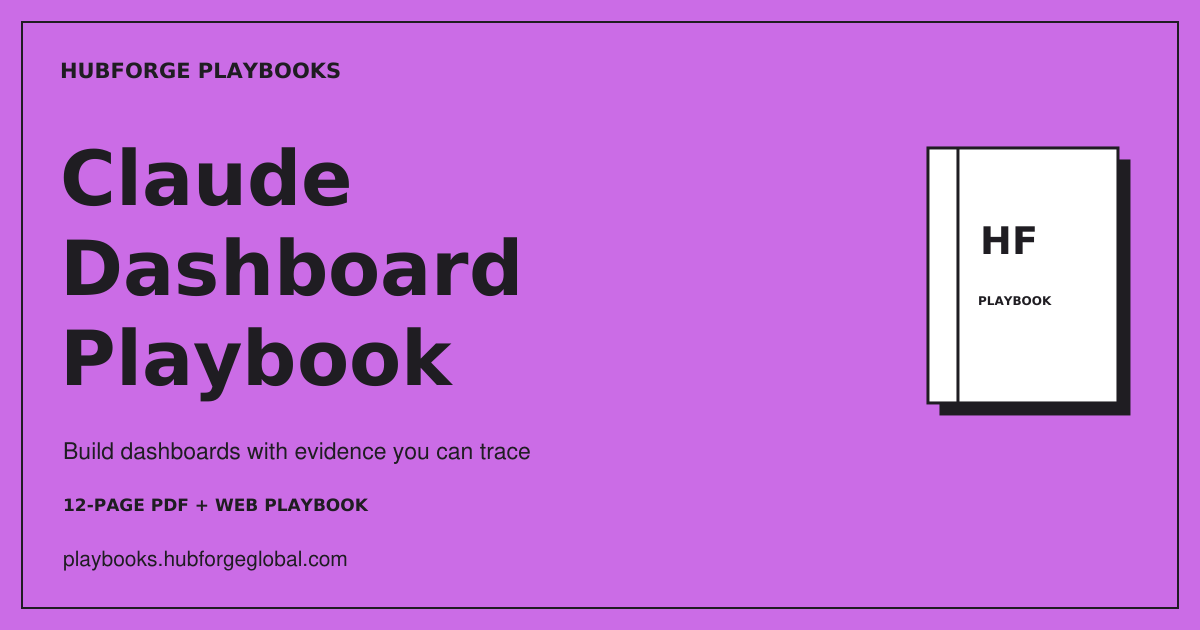
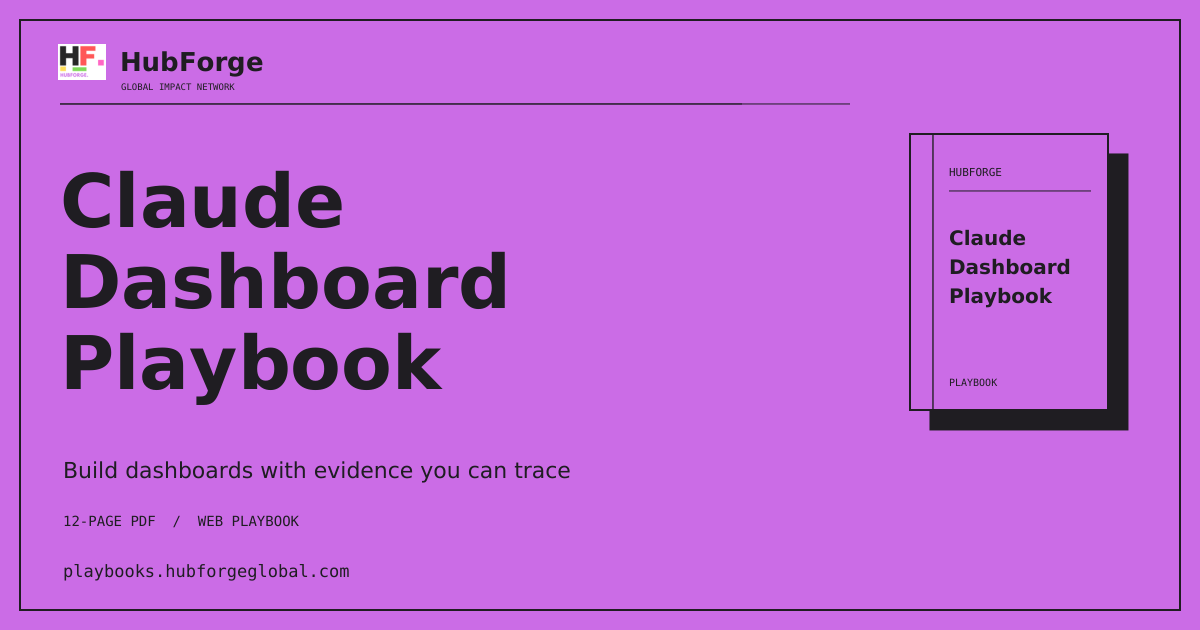
Make social previews crawler-friendly and distinctly HubForge branded

Changed region(s): [[0.0, 0.0302, 0.9867, 0.9952]]

diff --git a/index.html b/index.html
@@ -3,6 +3,35 @@
 <head>
   <meta charset="utf-8">
   <meta name="viewport" content="width=device-width, initial-scale=1">
+<!-- Search, social previews and machine-readable playbook metadata -->
+<title>HubForge Playbooks | Dashboard Design &amp; AI</title>
+<meta name="description" content="Free HubForge playbooks for dashboard design and AI-assisted workflows. Read Designing Dashboards with AI and the Claude Dashboard Playbook or download the PDFs.">
+<meta name="robots" content="index, follow, max-image-preview:large, max-snippet:-1, max-video-preview:-1">
+<meta name="author" content="HubForge Global Impact Network Foundation">
+<link rel="canonical" href="https://playbooks.hubforgeglobal.com/">
+<link rel="alternate" type="text/markdown" href="https://playbooks.hubforgeglobal.com/index.md" title="Playbook summary">
+<link rel="describedby" type="text/plain" href="https://playbooks.hubforgeglobal.com/llms.txt">
+<meta property="og:type" content="website">
+<meta property="og:site_name" content="HubForge Playbooks">
+<meta property="og:locale" content="en_US">
+<meta property="og:title" content="HubForge Playbooks">
+<meta property="og:description" content="Free playbooks. Better dashboards. Smarter AI workflows. Read online or download the PDFs.">
+<meta property="og:url" content="https://playbooks.hubforgeglobal.com/">
+<meta property="og:image" content="https://playbooks.hubforgeglobal.com/assets/social/library-branded.png">
+<meta property="og:image:secure_url" content="https://playbooks.hubforgeglobal.com/assets/social/library-branded.png">
+<meta property="og:image:type" content="image/png">
+<meta property="og:image:width" content="1200">
+<meta property="og:image:height" content="630">
+<meta property="og:image:alt" content="HubForge Playbooks by HubForge">
+<meta name="twitter:card" content="summary_large_image">
+<meta name="twitter:title" content="HubForge Playbooks">
+<meta name="twitter:description" content="Free playbooks. Better dashboards. Smarter AI workflows. Read online or download the PDFs.">
+<meta name="twitter:image" content="https://playbooks.hubforgeglobal.com/assets/social/library-branded.png">
+<meta name="twitter:image:alt" content="HubForge Playbooks by HubForge">
+<script type="application/ld+json">{"@context":"https://schema.org","@graph":[{"@type":"Organization","@id":"https://playbooks.hubforgeglobal.com/#publisher","name":"HubForge Global Impact Network Foundation","url":"https://www.hubforgeglobal.com/"},{"@type":"WebSite","@id":"https://playbooks.hubforgeglobal.com/#website","name":"HubForge Playbooks","url":"https://playbooks.hubforgeglobal.com/","publisher":{"@id":"https://playbooks.hubforgeglobal.com/#publisher"},"inLanguage":"en"},{"@type":"CollectionPage","@id":"https://playbooks.hubforgeglobal.com/#webpage","url":"https://playbooks.hubforgeglobal.com/","name":"HubForge Playbooks | Dashboard Design & AI","description":"Free HubForge playbooks for dashboard design and AI-assisted workflows. Read Designing Dashboards with AI and the Claude Dashboard Playbook or download the PDFs.","isPartOf":{"@id":"https://playbooks.hubforgeglobal.com/#website"},"inLanguage":"en","mainEntity":{"@type":"ItemList","itemListElement":[{"@type":"ListItem","position":1,"url":"https://playbooks.hubforgeglobal.com/designing-dashboards/","name":"Designing Dashboards with AI"},{"@type":"ListItem","position":2,"url":"https://playbooks.hubforgeglobal.com/claude-dashboards/","name":"Claude Dashboard Playbook"}]}},{"@type":["Book","LearningResource"],"@id":"https://playbooks.hubforgeglobal.com/designing-dashboards/#playbook","name":"Designing Dashboards with AI","url":"https://playbooks.hubforgeglobal.com/designing-dashboards/","description":"Design dashboards that help people act. Learn the six-stage DESIGN framework, practise with exercises, and download the free 27-page HubForge playbook.","inLanguage":"en","isAccessibleForFree":true,"learningResourceType":"Playbook","numberOfPages":27,"publisher":{"@id":"https://playbooks.hubforgeglobal.com/#publisher"},"image":"https://playbooks.hubforgeglobal.com/assets/social/designing-dashboards.png","encoding":{"@type":"MediaObject","encodingFormat":"application/pdf","contentUrl":"https://playbooks.hubforgeglobal.com/designing-dashboards/playbook.pdf"},"about":{"@type":"Thing","name":"AI-assisted dashboard design"}},{"@type":["Book","LearningResource"],"@id":"https://playbooks.hubforgeglobal.com/claude-dashboards/#playbook","name":"Claude Dashboard Playbook","url":"https://playbooks.hubforgeglobal.com/claude-dashboards/","description":"Build evidence dashboards with Claude. Use prompts, connect data, trace numbers to their sources, and download the free 12-page HubForge playbook.","inLanguage":"en","isAccessibleForFree":true,"learningResourceType":"Playbook","numberOfPages":12,"publisher":{"@id":"https://playbooks.hubforgeglobal.com/#publisher"},"image":"https://playbooks.hubforgeglobal.com/assets/social/claude-dashboards.png","encoding":{"@type":"MediaObject","encodingFormat":"application/pdf","contentUrl":"https://playbooks.hubforgeglobal.com/claude-dashboards/playbook.pdf"},"about":{"@type":"Thing","name":"Evidence dashboards with Claude"}}]}</script>
+<link rel="stylesheet" href="/assets/sharing.css">
+<script src="/assets/sharing.js" defer></script>
+
 
 
 
@@ -264,34 +293,6 @@
     }
   </style>
 
-<!-- Search, social previews and machine-readable playbook metadata -->
-<title>HubForge Playbooks | Dashboard Design &amp; AI</title>
-<meta name="description" content="Free HubForge playbooks for dashboard design and AI-assisted workflows. Read Designing Dashboards with AI and the Claude Dashboard Playbook or download the PDFs.">
-<meta name="robots" content="index, follow, max-image-preview:large, max-snippet:-1, max-video-preview:-1">
-<meta name="author" content="HubForge Global Impact Network Foundation">
-<link rel="canonical" href="https://playbooks.hubforgeglobal.com/">
-<link rel="alternate" type="text/markdown" href="https://playbooks.hubforgeglobal.com/index.md" title="Playbook summary">
-<link rel="describedby" type="text/plain" href="https://playbooks.hubforgeglobal.com/llms.txt">
-<meta property="og:type" content="website">
-<meta property="og:site_name" content="HubForge Playbooks">
-<meta property="og:locale" content="en_US">
-<meta property="og:title" content="HubForge Playbooks | Dashboard Design &amp; AI">
-<meta property="og:description" content="Free HubForge playbooks for dashboard design and AI-assisted workflows. Read Designing Dashboards with AI and the Claude Dashboard Playbook or download the PDFs.">
-<meta property="og:url" content="https://playbooks.hubforgeglobal.com/">
-<meta property="og:image" content="https://playbooks.hubforgeglobal.com/assets/social/library.png">
-<meta property="og:image:secure_url" content="https://playbooks.hubforgeglobal.com/assets/social/library.png">
-<meta property="og:image:type" content="image/png">
-<meta property="og:image:width" content="1200">
-<meta property="og:image:height" content="630">
-<meta property="og:image:alt" content="HubForge Playbooks by HubForge">
-<meta name="twitter:card" content="summary_large_image">
-<meta name="twitter:title" content="HubForge Playbooks | Dashboard Design &amp; AI">
-<meta name="twitter:description" content="Free HubForge playbooks for dashboard design and AI-assisted workflows. Read Designing Dashboards with AI and the Claude Dashboard Playbook or download the PDFs.">
-<meta name="twitter:image" content="https://playbooks.hubforgeglobal.com/assets/social/library.png">
-<meta name="twitter:image:alt" content="HubForge Playbooks by HubForge">
-<script type="application/ld+json">{"@context":"https://schema.org","@graph":[{"@type":"Organization","@id":"https://playbooks.hubforgeglobal.com/#publisher","name":"HubForge Global Impact Network Foundation","url":"https://www.hubforgeglobal.com/"},{"@type":"WebSite","@id":"https://playbooks.hubforgeglobal.com/#website","name":"HubForge Playbooks","url":"https://playbooks.hubforgeglobal.com/","publisher":{"@id":"https://playbooks.hubforgeglobal.com/#publisher"},"inLanguage":"en"},{"@type":"CollectionPage","@id":"https://playbooks.hubforgeglobal.com/#webpage","url":"https://playbooks.hubforgeglobal.com/","name":"HubForge Playbooks | Dashboard Design & AI","description":"Free HubForge playbooks for dashboard design and AI-assisted workflows. Read Designing Dashboards with AI and the Claude Dashboard Playbook or download the PDFs.","isPartOf":{"@id":"https://playbooks.hubforgeglobal.com/#website"},"inLanguage":"en","mainEntity":{"@type":"ItemList","itemListElement":[{"@type":"ListItem","position":1,"url":"https://playbooks.hubforgeglobal.com/designing-dashboards/","name":"Designing Dashboards with AI"},{"@type":"ListItem","position":2,"url":"https://playbooks.hubforgeglobal.com/claude-dashboards/","name":"Claude Dashboard Playbook"}]}},{"@type":["Book","LearningResource"],"@id":"https://playbooks.hubforgeglobal.com/designing-dashboards/#playbook","name":"Designing Dashboards with AI","url":"https://playbooks.hubforgeglobal.com/designing-dashboards/","description":"Design dashboards that help people act. Learn the six-stage DESIGN framework, practise with exercises, and download the free 27-page HubForge playbook.","inLanguage":"en","isAccessibleForFree":true,"learningResourceType":"Playbook","numberOfPages":27,"publisher":{"@id":"https://playbooks.hubforgeglobal.com/#publisher"},"image":"https://playbooks.hubforgeglobal.com/assets/social/designing-dashboards.png","encoding":{"@type":"MediaObject","encodingFormat":"application/pdf","contentUrl":"https://playbooks.hubforgeglobal.com/designing-dashboards/playbook.pdf"},"about":{"@type":"Thing","name":"AI-assisted dashboard design"}},{"@type":["Book","LearningResource"],"@id":"https://playbooks.hubforgeglobal.com/claude-dashboards/#playbook","name":"Claude Dashboard Playbook","url":"https://playbooks.hubforgeglobal.com/claude-dashboards/","description":"Build evidence dashboards with Claude. Use prompts, connect data, trace numbers to their sources, and download the free 12-page HubForge playbook.","inLanguage":"en","isAccessibleForFree":true,"learningResourceType":"Playbook","numberOfPages":12,"publisher":{"@id":"https://playbooks.hubforgeglobal.com/#publisher"},"image":"https://playbooks.hubforgeglobal.com/assets/social/claude-dashboards.png","encoding":{"@type":"MediaObject","encodingFormat":"application/pdf","contentUrl":"https://playbooks.hubforgeglobal.com/claude-dashboards/playbook.pdf"},"about":{"@type":"Thing","name":"Evidence dashboards with Claude"}}]}</script>
-<link rel="stylesheet" href="/assets/sharing.css">
-<script src="/assets/sharing.js" defer></script>
 </head>
 <body>
   <div class="topline" aria-hidden="true"></div>

diff --git a/designing-dashboards/index.html b/designing-dashboards/index.html
@@ -1,4 +1,33 @@
 <!doctype html><html lang="en"><head><meta charset="utf-8"><meta name="viewport" content="width=device-width,initial-scale=1">
+<!-- Search, social previews and machine-readable playbook metadata -->
+<title>Designing Dashboards with AI Playbook | HubForge</title>
+<meta name="description" content="Design dashboards that help people act. Learn the six-stage DESIGN framework, practise with exercises, and download the free 27-page HubForge playbook.">
+<meta name="robots" content="index, follow, max-image-preview:large, max-snippet:-1, max-video-preview:-1">
+<meta name="author" content="HubForge Global Impact Network Foundation">
+<link rel="canonical" href="https://playbooks.hubforgeglobal.com/designing-dashboards/">
+<link rel="alternate" type="text/markdown" href="https://playbooks.hubforgeglobal.com/designing-dashboards/index.md" title="Playbook summary">
+<link rel="describedby" type="text/plain" href="https://playbooks.hubforgeglobal.com/llms.txt">
+<meta property="og:type" content="article">
+<meta property="og:site_name" content="HubForge Playbooks">
+<meta property="og:locale" content="en_US">
+<meta property="og:title" content="Designing Dashboards with AI Playbook | HubForge">
+<meta property="og:description" content="Design dashboards that help people act. Learn the six-stage DESIGN framework, practise with exercises, and download the free 27-page HubForge playbook.">
+<meta property="og:url" content="https://playbooks.hubforgeglobal.com/designing-dashboards/">
+<meta property="og:image" content="https://playbooks.hubforgeglobal.com/assets/social/designing-dashboards.png">
+<meta property="og:image:secure_url" content="https://playbooks.hubforgeglobal.com/assets/social/designing-dashboards.png">
+<meta property="og:image:type" content="image/png">
+<meta property="og:image:width" content="1200">
+<meta property="og:image:height" content="630">
+<meta property="og:image:alt" content="Designing Dashboards with AI by HubForge">
+<meta name="twitter:card" content="summary_large_image">
+<meta name="twitter:title" content="Designing Dashboards with AI Playbook | HubForge">
+<meta name="twitter:description" content="Design dashboards that help people act. Learn the six-stage DESIGN framework, practise with exercises, and download the free 27-page HubForge playbook.">
+<meta name="twitter:image" content="https://playbooks.hubforgeglobal.com/assets/social/designing-dashboards.png">
+<meta name="twitter:image:alt" content="Designing Dashboards with AI by HubForge">
+<script type="application/ld+json">{"@context":"https://schema.org","@graph":[{"@type":"Organization","@id":"https://playbooks.hubforgeglobal.com/#publisher","name":"HubForge Global Impact Network Foundation","url":"https://www.hubforgeglobal.com/"},{"@type":"WebSite","@id":"https://playbooks.hubforgeglobal.com/#website","name":"HubForge Playbooks","url":"https://playbooks.hubforgeglobal.com/","publisher":{"@id":"https://playbooks.hubforgeglobal.com/#publisher"},"inLanguage":"en"},{"@type":"WebPage","@id":"https://playbooks.hubforgeglobal.com/designing-dashboards/#webpage","url":"https://playbooks.hubforgeglobal.com/designing-dashboards/","name":"Designing Dashboards with AI Playbook | HubForge","description":"Design dashboards that help people act. Learn the six-stage DESIGN framework, practise with exercises, and download the free 27-page HubForge playbook.","isPartOf":{"@id":"https://playbooks.hubforgeglobal.com/#website"},"inLanguage":"en","mainEntity":{"@id":"https://playbooks.hubforgeglobal.com/designing-dashboards/#playbook"}},{"@type":["Book","LearningResource"],"@id":"https://playbooks.hubforgeglobal.com/designing-dashboards/#playbook","name":"Designing Dashboards with AI","url":"https://playbooks.hubforgeglobal.com/designing-dashboards/","description":"Design dashboards that help people act. Learn the six-stage DESIGN framework, practise with exercises, and download the free 27-page HubForge playbook.","inLanguage":"en","isAccessibleForFree":true,"learningResourceType":"Playbook","numberOfPages":27,"publisher":{"@id":"https://playbooks.hubforgeglobal.com/#publisher"},"image":"https://playbooks.hubforgeglobal.com/assets/social/designing-dashboards.png","encoding":{"@type":"MediaObject","encodingFormat":"application/pdf","contentUrl":"https://playbooks.hubforgeglobal.com/designing-dashboards/playbook.pdf"},"about":{"@type":"Thing","name":"AI-assisted dashboard design"}},{"@type":"BreadcrumbList","itemListElement":[{"@type":"ListItem","position":1,"name":"Playbooks","item":"https://playbooks.hubforgeglobal.com/"},{"@type":"ListItem","position":2,"name":"Designing Dashboards with AI","item":"https://playbooks.hubforgeglobal.com/designing-dashboards/"}]}]}</script>
+<link rel="stylesheet" href="/assets/sharing.css">
+<script src="/assets/sharing.js" defer></script>
+
 
 <link rel="preconnect" href="https://fonts.googleapis.com">
 <link rel="preconnect" href="https://fonts.gstatic.com" crossorigin>
@@ -565,34 +594,6 @@ section.night .rt{color:#c9c3d2}
 .hero .route[aria-pressed="true"] span{color:rgba(255,255,255,.78)}
 .hero .btn.ghost{color:var(--hero-ink);border-color:var(--hero-ink)}
 </style>
-<!-- Search, social previews and machine-readable playbook metadata -->
-<title>Designing Dashboards with AI Playbook | HubForge</title>
-<meta name="description" content="Design dashboards that help people act. Learn the six-stage DESIGN framework, practise with exercises, and download the free 27-page HubForge playbook.">
-<meta name="robots" content="index, follow, max-image-preview:large, max-snippet:-1, max-video-preview:-1">
-<meta name="author" content="HubForge Global Impact Network Foundation">
-<link rel="canonical" href="https://playbooks.hubforgeglobal.com/designing-dashboards/">
-<link rel="alternate" type="text/markdown" href="https://playbooks.hubforgeglobal.com/designing-dashboards/index.md" title="Playbook summary">
-<link rel="describedby" type="text/plain" href="https://playbooks.hubforgeglobal.com/llms.txt">
-<meta property="og:type" content="article">
-<meta property="og:site_name" content="HubForge Playbooks">
-<meta property="og:locale" content="en_US">
-<meta property="og:title" content="Designing Dashboards with AI Playbook | HubForge">
-<meta property="og:description" content="Design dashboards that help people act. Learn the six-stage DESIGN framework, practise with exercises, and download the free 27-page HubForge playbook.">
-<meta property="og:url" content="https://playbooks.hubforgeglobal.com/designing-dashboards/">
-<meta property="og:image" content="https://playbooks.hubforgeglobal.com/assets/social/designing-dashboards.png">
-<meta property="og:image:secure_url" content="https://playbooks.hubforgeglobal.com/assets/social/designing-dashboards.png">
-<meta property="og:image:type" content="image/png">
-<meta property="og:image:width" content="1200">
-<meta property="og:image:height" content="630">
-<meta property="og:image:alt" content="Designing Dashboards with AI by HubForge">
-<meta name="twitter:card" content="summary_large_image">
-<meta name="twitter:title" content="Designing Dashboards with AI Playbook | HubForge">
-<meta name="twitter:description" content="Design dashboards that help people act. Learn the six-stage DESIGN framework, practise with exercises, and download the free 27-page HubForge playbook.">
-<meta name="twitter:image" content="https://playbooks.hubforgeglobal.com/assets/social/designing-dashboards.png">
-<meta name="twitter:image:alt" content="Designing Dashboards with AI by HubForge">
-<script type="application/ld+json">{"@context":"https://schema.org","@graph":[{"@type":"Organization","@id":"https://playbooks.hubforgeglobal.com/#publisher","name":"HubForge Global Impact Network Foundation","url":"https://www.hubforgeglobal.com/"},{"@type":"WebSite","@id":"https://playbooks.hubforgeglobal.com/#website","name":"HubForge Playbooks","url":"https://playbooks.hubforgeglobal.com/","publisher":{"@id":"https://playbooks.hubforgeglobal.com/#publisher"},"inLanguage":"en"},{"@type":"WebPage","@id":"https://playbooks.hubforgeglobal.com/designing-dashboards/#webpage","url":"https://playbooks.hubforgeglobal.com/designing-dashboards/","name":"Designing Dashboards with AI Playbook | HubForge","description":"Design dashboards that help people act. Learn the six-stage DESIGN framework, practise with exercises, and download the free 27-page HubForge playbook.","isPartOf":{"@id":"https://playbooks.hubforgeglobal.com/#website"},"inLanguage":"en","mainEntity":{"@id":"https://playbooks.hubforgeglobal.com/designing-dashboards/#playbook"}},{"@type":["Book","LearningResource"],"@id":"https://playbooks.hubforgeglobal.com/designing-dashboards/#playbook","name":"Designing Dashboards with AI","url":"https://playbooks.hubforgeglobal.com/designing-dashboards/","description":"Design dashboards that help people act. Learn the six-stage DESIGN framework, practise with exercises, and download the free 27-page HubForge playbook.","inLanguage":"en","isAccessibleForFree":true,"learningResourceType":"Playbook","numberOfPages":27,"publisher":{"@id":"https://playbooks.hubforgeglobal.com/#publisher"},"image":"https://playbooks.hubforgeglobal.com/assets/social/designing-dashboards.png","encoding":{"@type":"MediaObject","encodingFormat":"application/pdf","contentUrl":"https://playbooks.hubforgeglobal.com/designing-dashboards/playbook.pdf"},"about":{"@type":"Thing","name":"AI-assisted dashboard design"}},{"@type":"BreadcrumbList","itemListElement":[{"@type":"ListItem","position":1,"name":"Playbooks","item":"https://playbooks.hubforgeglobal.com/"},{"@type":"ListItem","position":2,"name":"Designing Dashboards with AI","item":"https://playbooks.hubforgeglobal.com/designing-dashboards/"}]}]}</script>
-<link rel="stylesheet" href="/assets/sharing.css">
-<script src="/assets/sharing.js" defer></script>
 </head><body>
 
 <nav class="nav" aria-label="Chapters">

diff --git a/claude-dashboards/index.html b/claude-dashboards/index.html
@@ -27,6 +27,7 @@
 <script type="application/ld+json">{"@context":"https://schema.org","@graph":[{"@type":"Organization","@id":"https://playbooks.hubforgeglobal.com/#publisher","name":"HubForge Global Impact Network Foundation","url":"https://www.hubforgeglobal.com/"},{"@type":"WebSite","@id":"https://playbooks.hubforgeglobal.com/#website","name":"HubForge Playbooks","url":"https://playbooks.hubforgeglobal.com/","publisher":{"@id":"https://playbooks.hubforgeglobal.com/#publisher"},"inLanguage":"en"},{"@type":"WebPage","@id":"https://playbooks.hubforgeglobal.com/claude-dashboards/#webpage","url":"https://playbooks.hubforgeglobal.com/claude-dashboards/","name":"Claude Dashboard Playbook | HubForge","description":"Build evidence dashboards with Claude. Use prompts, connect data, trace numbers to their sources, and download the free 12-page HubForge playbook.","isPartOf":{"@id":"https://playbooks.hubforgeglobal.com/#website"},"inLanguage":"en","mainEntity":{"@id":"https://playbooks.hubforgeglobal.com/claude-dashboards/#playbook"}},{"@type":["Book","LearningResource"],"@id":"https://playbooks.hubforgeglobal.com/claude-dashboards/#playbook","name":"Claude Dashboard Playbook","url":"https://playbooks.hubforgeglobal.com/claude-dashboards/","description":"Build evidence dashboards with Claude. Use prompts, connect data, trace numbers to their sources, and download the free 12-page HubForge playbook.","inLanguage":"en","isAccessibleForFree":true,"learningResourceType":"Playbook","numberOfPages":12,"publisher":{"@id":"https://playbooks.hubforgeglobal.com/#publisher"},"image":"https://playbooks.hubforgeglobal.com/assets/social/claude-dashboards.png","encoding":{"@type":"MediaObject","encodingFormat":"application/pdf","contentUrl":"https://playbooks.hubforgeglobal.com/claude-dashboards/playbook.pdf"},"about":{"@type":"Thing","name":"Evidence dashboards with Claude"}},{"@type":"BreadcrumbList","itemListElement":[{"@type":"ListItem","position":1,"name":"Playbooks","item":"https://playbooks.hubforgeglobal.com/"},{"@type":"ListItem","position":2,"name":"Claude Dashboard Playbook","item":"https://playbooks.hubforgeglobal.com/claude-dashboards/"}]}]}</script>
 <link rel="stylesheet" href="/assets/sharing.css">
 <script src="/assets/sharing.js" defer></script>
+
 </head><body style="margin:0">
 <link rel="preconnect" href="https://fonts.googleapis.com">
 <link rel="preconnect" href="https://fonts.gstatic.com" crossorigin>
